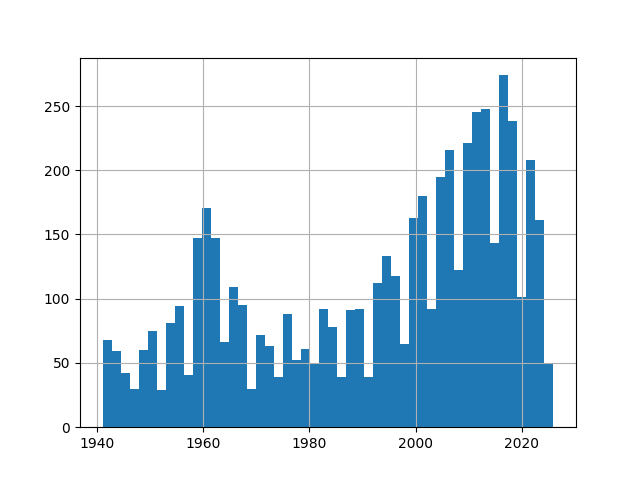
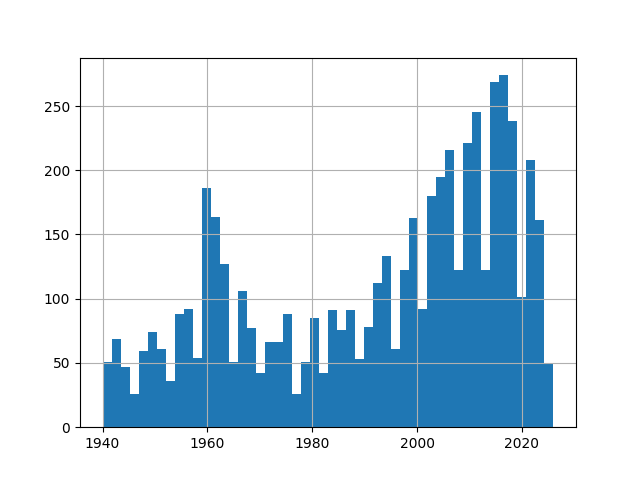
third push

diff --git a/wrangling2.py b/wrangling2.py
@@ -1,38 +1,44 @@
 #!/usr/bin/env python3
 
+# Question 2
 import pandas as pd
 import numpy as np
 import matplotlib.pyplot as plt
+# importing the necessary packages 
 
-
-
-df4 = pd.read_excel("/mnt/c/Users/rache/Downloads/GSAF5.xls")
+# Part 1
+df4 = pd.read_excel("/mnt/c/Users/rache/Downloads/GSAF5.xls") #reading in the file
 #https://www.geeksforgeeks.org/python/reading-excel-file-using-python/
 
 pd.set_option('display.max_rows', None)
 
-# Optional: show all columns too
-pd.set_option('display.max_columns', None)
 
+pd.set_option('display.max_columns', None)
+#https://builtin.com/data-science/pandas-show-all-columns
+
+#Part 2
 #print(df4.columns)
 length=len(df4['Time'])
 print(length)
 
 c=df4.isna().sum()
 print(c)
+# i dropped the unnamed columns because they weren't in the excel dataset and I wasn't sure what they meant, otherwise all of the columns had data in them
 
 df4 = df4.drop(['Unnamed: 21', 'Unnamed: 22'], axis=1)
 print(df4.columns)
+#https://www.geeksforgeeks.org/python/how-to-drop-one-or-multiple-columns-in-pandas-dataframe/
 
-
+#Part 3
 print(df4['Year'].unique())
 
 print(df4['Year'].head(20))
 
 # I see a range of values going from 0000-2025. To clean the column, I did the following code to remove missing values.
 df4['Year'] = df4['Year'].replace(' ',np.nan)
-filtered_df4 = df4[df4['Year'] > 1940]
+filtered_df4 = df4[df4['Year'] > 1939]
 print(filtered_df4['Year'].unique())
+
 
 #https://www.geeksforgeeks.org/pandas/ways-to-filter-pandas-dataframe-by-column-values/
 filtered_df4['Year'].hist(bins=50)
@@ -41,32 +47,38 @@ plt.show()
 plt.savefig("year_hist.png")
 # i did a histogram and judging from the histogram, the shark attacks are increasing as the years progress
 
-filtered_df4['Age'] = filtered_df4['Age'].replace([' ','nan','NA','N/A'], np.nan)
-filtered_df4['Age'] = pd.to_numeric(filtered_df4['Age'], errors='coerce')
-filtered_df4['Age'].hist(bins=50)
+# Part 4
+df4['Age']=df4['Age'].astype(str)
+df4['Age']=df4['Age'].str.strip()
+df4['Age'] = df4['Age'].replace([' ','nan','NA','N/A'], np.nan)
+
+df4['Age'].hist(bins=50)
 plt.show()
+# https://matplotlib.org/stable/api/_as_gen/matplotlib.pyplot.savefig.html
 
-plt.savefig("AGE_histo.png")
 
+plt.savefig("AGE.png")
+# saving the histogram to a picture
 
-print(filtered_df4['Age'].describe())
-print(filtered_df4['Age'].unique())
+#Part 5
 
-print(len(filtered_df4[filtered_df4['Sex']=='M']))
-print(len(filtered_df4[filtered_df4['Sex']=='F']))
 
 x=len(df4[df4['Sex']=='M'])
 y=len(df4[df4['Sex']=='F'])
 print(x/(x+y))
-#male is 4311/5026, and the 5026 comes from just entries of "M" or "F" (for the 1940 filtered data)
+
 #male proportion is .88 for the unfiltered data
-print(df4['Type'].unique())
+
+# Part 6
+
+print(df4['Type'].unique()) #seeing all the unique types of entries in the column
 
 df4['Type'] = df4['Type'].replace(['Watercraft', 'Sea Disaster','Boat','unprovoked'], 'Unprovoked')
 df4['Type'] = df4['Type'].replace(' Provoked', 'Provoked')
 df4['Type'] = df4['Type'].replace(['Questionable','?','Unconfirmed','Unverified','Invalid','Under investigation'], 'Unknown')
 df4['Type'] = df4['Type'].replace([' ', 'nan'], np.nan)
 print(df4['Type'].unique())
+#this is me removing the extra words and narrowing it down to three different categories, and I did a print statement to check my work
 
 a=len(df4['Type'])
 b=len(df4[df4['Type']=='Unprovoked'])
@@ -75,7 +87,9 @@ print(ratio)
 
 # 0.82 of the attacks were unprovoked
 
-print(df4['Fatal Y/N'].unique())
+#Part 7
+
+print(df4['Fatal Y/N'].unique()) #seeing the unique values in the column
 
 
 df4['Fatal Y/N']=df4['Fatal Y/N'].replace(['F','M','Nq','UNKNOWN',2017,'Y x 2'],np.nan)
@@ -83,11 +97,14 @@ df4['Fatal Y/N']=df4['Fatal Y/N'].replace(['n',' N', 'N '], 'N')
 df4['Fatal Y/N']=df4['Fatal Y/N'].replace('y','Y')
 
 print(df4['Fatal Y/N'].unique())
+# cleaning the column with .replace and then checking my work to make sure there are only Y or N
+
+#Part 8
 
 q1=df4[['Type','Sex']]
 q2=df4[['Type','Fatal Y/N']]
 q3=df4[['Fatal Y/N', 'Sex']]
-
+# making three subsets
 print(len(q1[(q1['Type']=='Unprovoked') & (q1['Sex']=='M')]))
 print(len(q1[(q1['Type']=='Unprovoked') & (q1['Sex']=='F')]))
 # there are much more males with unprovoked shark attacks than females
@@ -102,6 +119,8 @@ print(len(q3[(q3['Sex']=='F') & (q3['Fatal Y/N']=='Y')]))
 
 # I still don't like sharks but I feel better because I am a female
 
+# Part 9
+
 gw=df4['Species '].str.count('Great White')
 print(gw.count())
 gw1=df4['Species '].str.count('white')
@@ -109,6 +128,6 @@ gw2=df4['Species '].str.count('great')
 print(gw1.count())
 print(gw2.count())
 # all of these print statements produced 3911
-
+# https://www.w3schools.com/python/ref_string_count.asp
 print(len(df4['Species ']))
 # 3911/7042 is the proportion of attacks from white sharks 

diff --git a/wrangling.py b/wrangling.py
@@ -3,34 +3,35 @@
 import pandas as pd
 import numpy as np
 import matplotlib.pyplot as plt
+#loading the necessary packages 
 
 df=pd.read_csv("data/airbnb_hw.csv") #importing the data airbnb
 
 
 
 #print("df.shape:")
-#print(df.shape, '\n') # List the dimensions of df
+print(df.shape, '\n') # List the dimensions of df
 
 #print("df.dtypes:")
-#print(df.dtypes, '\n') # The types of the variables; `object` is a bad sign
+print(df.dtypes, '\n') # The types of the variables; `object` is a bad sign
 
 #print("df.columns:")
-#print(df.columns, '\n')
+print(df.columns, '\n')
 
 pd.set_option('display.max_rows', None)
 
-# Optional: show all columns too
+# I did this code so I could have my dataset show me all of the rows and columns
 pd.set_option('display.max_columns', None)
 
+# Question 1, Part 1
 
-
-x=df.isnull()
-#print(x)
+x=df['Price'].isna().sum()
+print(x)
 #https://www.geeksforgeeks.org/data-analysis/working-with-missing-data-in-pandas/ (citations for my work, it printed out no null values)
 
 # there are some commas when the price goes over 1,000, so we need to remove these commas so the variable is numeric
 
-#df['Price'] = pd.to_numeric(df['Price'], errors='coerce')
+
 df['Price']=df['Price'].str.replace(",", "") #removing the commas, did a print statement later to check and the comma was gone
 
 
@@ -40,16 +41,16 @@ df2=pd.read_csv("data/mn_police_use_of_force.csv") #reading in the second datase
 
 
 df2['subject_injury'] = df2['subject_injury'].replace(' ',np.nan) #replacing the missing values with np.nan
-#print(df2.head(50)) #shows the NaNs are in there
+print(df2.head(50)) #shows the NaNs are in there
 na=(df2['subject_injury'].isna().sum())
 length=len(df2['subject_injury'])
-#print(na/length)
+print(na/length)
 # equals .76; this is concerning because there are a lot of missing values, and this column only has 1/4 actual data. it is not very reliable.
 #https://stackoverflow.com/questions/26266362/how-do-i-count-the-nan-values-in-a-column-in-pandas-dataframe
-#print(df2['subject_injury'].sum())
+print(df2['subject_injury'].sum())
 
-#print(pd.crosstab(df2['subject_injury'],df2['force_type']))
-# baton, firearms, less lethal projectiles are the very concerning ones because they don't have many issues
+print(pd.crosstab(df2['subject_injury'],df2['force_type'])) #this is to cross tabulate 
+# baton, firearms, less lethal projectiles are the very concerning ones because they don't have many data entries in the cross tabulation 
 
 
 # Question 3
@@ -58,11 +59,11 @@ df3 = pd.read_csv(url,low_memory=False)
 
 
 
-#NA=(df3['WhetherDefendantWasReleasedPretrial'].isna().sum())
-#print(NA)
-#print(df3['WhetherDefendantWasReleasedPretrial'].unique())
+NA=(df3['WhetherDefendantWasReleasedPretrial'].isna().sum())
+print(NA)
+print(df3['WhetherDefendantWasReleasedPretrial'].unique())
 # both of these codes showed that 1) there were no NA values, and 2) there is a 9 in the data column so we need to remove that
-#df3['WhetherDefendantWasReleasedPretrial']=df3['WhetherDefendantWasReleasedPretrial'].replace('9',np.nan) #this will replace the 9 with an NAN
+df3['WhetherDefendantWasReleasedPretrial']=df3['WhetherDefendantWasReleasedPretrial'].replace('9',np.nan) #this will replace the 9 with an NAN
 
 
 # Part 4
